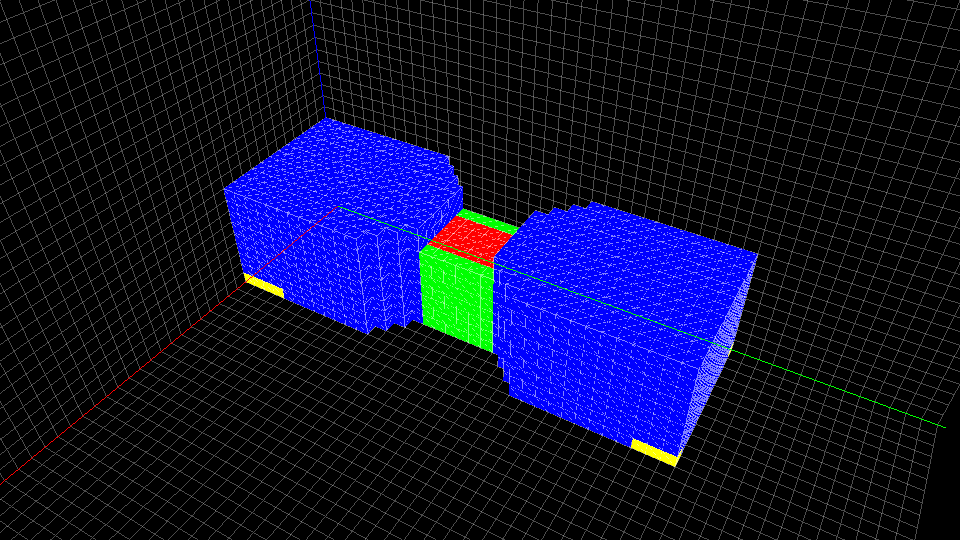
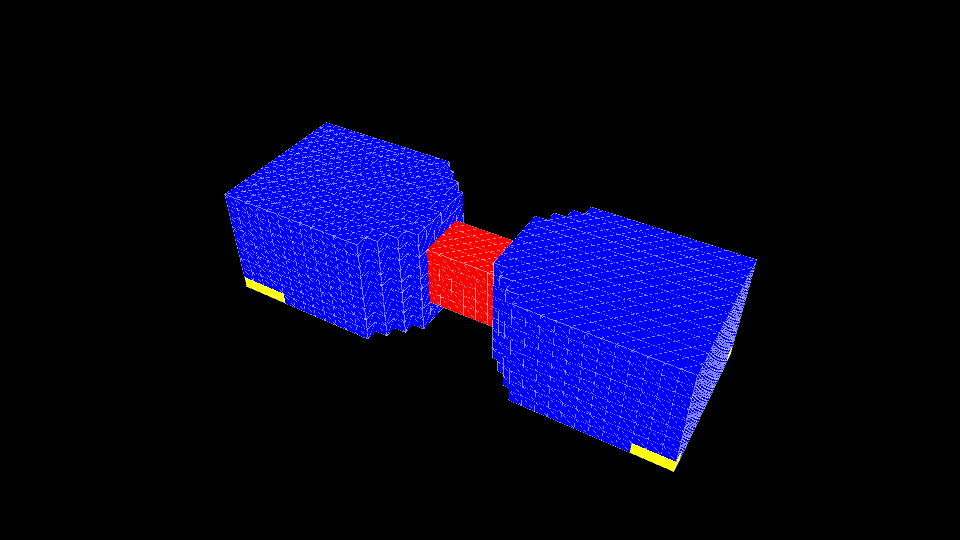
Dilate and Erode Updates
- Corrected logic used in dilate/erode functions
- Removed shell function

diff --git a/model_tools.py b/model_tools.py
@@ -88,9 +88,9 @@ def nor(base_model, model_2):
     model_A = model_A - model_2
     return model_A
 
-# Dilate, erode, and shell #########################################################
+# Blur, Dilate, and Erode #########################################################
 def blur(base_model, threshold = 0.0):
-    # Initialize output array
+    # Initialize output arrays
     new_r = np.zeros_like(base_model).astype(float)
     new_g = np.zeros_like(base_model).astype(float)
     new_b = np.zeros_like(base_model).astype(float)
@@ -121,56 +121,67 @@ def blur(base_model, threshold = 0.0):
 
     return new_model
 
-def dilate(base_model, radius, output_material):
-    # Initialize output array
-    new_model = np.copy(base_model)
+def dilate(base_model, radius, threshold = 0.0):
+    # Initialize output arrays
+    new_r = np.zeros_like(base_model).astype(float)
+    new_g = np.zeros_like(base_model).astype(float)
+    new_b = np.zeros_like(base_model).astype(float)
 
-    for i in range(radius):
-        new_model = blur(new_model, 0.18)
-        new_model[new_model != 0] = 101
-
-    new_model[new_model != 0] = output_material
-
-    return new_model
-
-def erode(base_model, radius, output_material):
-    # Initialize output array
-    new_model = np.copy(base_model)
-
-    for i in range(radius):
-        new_model = blur(new_model, 0.82)
-        new_model[new_model != 0] = 101
-
-    new_model[new_model != 0] = output_material
-
-    return new_model
-
-# Create a shell around a model
-def shell(base_model, thickness, inside_outside, output_material):
-    # Initialize output array
-    new_model = np.zeros_like(base_model)
+    r, g, b = separate_colors(base_model)
 
     x_len = len(base_model[0, 0, :])
     y_len = len(base_model[:, 0, 0])
     z_len = len(base_model[0, :, 0])
 
-    # Loop through model data
-    for x in range(thickness, x_len-thickness):
-        for y in range(thickness, y_len-thickness):
-            for z in range(thickness, z_len-thickness):
-                # If voxel is empty
-                if (inside_outside == 'inside') and (base_model[y, z, x] == 0):
-                    new_model[y-thickness:y+thickness+1, z-thickness:z+thickness+1, x-thickness:x+thickness+1].fill(1)
-                # If voxel is not empty
-                elif (inside_outside == 'outside') and (base_model[y, z, x] != 0):
-                    new_model[y-thickness:y+thickness+1, z-thickness:z+thickness+1, x-thickness:x+thickness+1].fill(1)
+    for i in range(radius):
+        for x in range(1, x_len-1):
+            for y in range(1, y_len-1):
+                for z in range(1, z_len-1):
+                    new_r[y, z, x] = np.max(r[y-1:y+2, z-1:z+2, x-1:x+2])
+                    new_g[y, z, x] = np.max(g[y-1:y+2, z-1:z+2, x-1:x+2])
+                    new_b[y, z, x] = np.max(b[y-1:y+2, z-1:z+2, x-1:x+2])
 
-    if inside_outside == 'inside':
-        new_model = difference(new_model, invert(base_model))
-    elif inside_outside == 'outside':
-        new_model = difference(new_model, base_model)
+        r = np.copy(new_r)
+        g = np.copy(new_g)
+        b = np.copy(new_b)
 
-    new_model = new_model*output_material
+    new_model = combine_colors(r, g, b)
+    new_model_brightness = (r + g + b)
+
+    if threshold != 0: # Input zero for no threshold effect
+        new_model[new_model_brightness < threshold] = 0
+
+    return new_model
+
+def erode(base_model, radius, threshold = 0.0):
+    # Initialize output arrays
+    new_r = np.zeros_like(base_model).astype(float)
+    new_g = np.zeros_like(base_model).astype(float)
+    new_b = np.zeros_like(base_model).astype(float)
+
+    r, g, b = separate_colors(base_model)
+
+    x_len = len(base_model[0, 0, :])
+    y_len = len(base_model[:, 0, 0])
+    z_len = len(base_model[0, :, 0])
+
+    for i in range(radius):
+        for x in range(1, x_len-1):
+            for y in range(1, y_len-1):
+                for z in range(1, z_len-1):
+                    new_r[y, z, x] = np.min(r[y-1:y+2, z-1:z+2, x-1:x+2])
+                    new_g[y, z, x] = np.min(g[y-1:y+2, z-1:z+2, x-1:x+2])
+                    new_b[y, z, x] = np.min(b[y-1:y+2, z-1:z+2, x-1:x+2])
+
+        r = np.copy(new_r)
+        g = np.copy(new_g)
+        b = np.copy(new_b)
+
+    new_model = combine_colors(r, g, b)
+    new_model_brightness = (r + g + b)
+
+    if threshold != 0: # Input zero for no threshold effect
+        new_model[new_model_brightness < threshold] = 0
 
     return new_model
 

diff --git a/Shell-Demo/dilate-erode.py b/Shell-Demo/dilate-erode.py
@@ -14,11 +14,10 @@ if __name__=='__main__':
     coloredlogs.install(level='DEBUG')
 
     # Import model
-    joint1 = model.import_vox('sample-joint-1.vox')
+    joint1 = model.import_vox('Shell-Demo/sample-joint-1.vox')
 
-    # Isolate flexible components and dilate
-    flexComponents = model.isolate_material(joint1, 101)
-    model1 = model.dilate(flexComponents, 3, 101)
+    # Dilate
+    model1 = model.isolate_layer(model.dilate(joint1, 1), 24)
 
     # Initialize application 1
     app1, w1 = plot.prep()
@@ -31,14 +30,14 @@ if __name__=='__main__':
     w1.addItem(mi)
 
     # Show plot 1
-    plot.show(w1, joint1)
+    plot.show(w1, model1, grids=True)
 
     # Save screenshot of plot 1
-    #w1.paintGL()
-    #w1.grabFrameBuffer().save('dilate-fig1.png')
+    w1.paintGL()
+    w1.grabFrameBuffer().save('Shell-Demo/dilate-fig1.png')
 
     # Erode
-    model2 = model.erode(flexComponents, 2, 101)
+    model2 = model.isolate_layer(model.erode(joint1, 1), 24)
 
     # Initialize application 2
     w2 = plot.add_widget()
@@ -51,10 +50,10 @@ if __name__=='__main__':
     w2.addItem(mi)
 
     # Show plot 2
-    plot.show(w2, flexComponents)
+    plot.show(w2, model2, grids=True)
 
     # Save screenshot of plot 2
-    #w2.paintGL()
-    #w2.grabFrameBuffer().save('erode-fig1.png')
+    w2.paintGL()
+    w2.grabFrameBuffer().save('Shell-Demo/erode-fig1.png')
 
     app1.exec_()

diff --git a/Shell-Demo/shell.py b/Shell-Demo/shell.py
@@ -14,11 +14,11 @@ if __name__=='__main__':
     coloredlogs.install(level='DEBUG')
 
     # Import model
-    joint1 = model.import_vox('sample-joint-1.vox')
+    joint1 = model.import_vox('Shell-Demo/sample-joint-1.vox')
 
     # Isolate flexible components and generate outer shell
     flexComponents = model.isolate_material(joint1, 101)
-    shell1 = model.shell(flexComponents, 1, 'outside', 21)
+    shell1 = model.difference(model.dilate(flexComponents, 1), flexComponents)
 
     # Initialize application 1
     app1, w1 = plot.prep()
@@ -35,10 +35,10 @@ if __name__=='__main__':
 
     # Save screenshot of plot 1
     #w1.paintGL()
-    #w1.grabFrameBuffer().save('shell-fig1.png')
+    #w1.grabFrameBuffer().save('Shell-Demo/shell-fig3.png')
 
     # Generate inner shell
-    shell2 = model.shell(flexComponents, 1, 'inside', 21)
+    shell2 = model.difference(flexComponents, model.erode(flexComponents, 1))
 
     # Initialize application 2
     w2 = plot.add_widget()
@@ -55,6 +55,6 @@ if __name__=='__main__':
 
     # Save screenshot of plot 2
     #w2.paintGL()
-    #w2.grabFrameBuffer().save('shell-fig2.png')
+    #w2.grabFrameBuffer().save('Shell-Demo/shell-fig4.png')
 
     app1.exec_()

diff --git a/Shell-Demo/blur.py b/Shell-Demo/blur.py
@@ -14,12 +14,13 @@ if __name__=='__main__':
     coloredlogs.install(level='DEBUG')
 
     # Import model
-    joint1 = model.import_vox('sample-joint-1.vox')
+    joint1 = model.import_vox('Shell-Demo/sample-joint-1.vox')
+    #joint1 = model.import_vox('Shell-Demo/sample-object-2.vox')
 
     # Isolate flexible components and blur
     flexComponents = model.isolate_material(joint1, 101)
-    model1 = model.blur(flexComponents)
-    #model1 = model.isolate_layer(model.blur(joint1, 0), 24)
+    #model1 = model.blur(flexComponents)
+    model1 = model.isolate_layer(model.blur(joint1, 0.5), 24)
 
     # Initialize application 1
     app1, w1 = plot.prep()

diff --git a/Import-Demo/voxel-tools.py b/Import-Demo/voxel-tools.py
@@ -15,7 +15,7 @@ if __name__=='__main__':
     coloredlogs.install(level='DEBUG')
 
     # Import model ##############################################################
-    model1 = model.import_vox('sample-joint-1.vox')
+    model1 = model.import_vox('Import-Demo/sample-joint-1.vox')
 
     # Initialize application 1
     app1, w1 = plot.prep()
